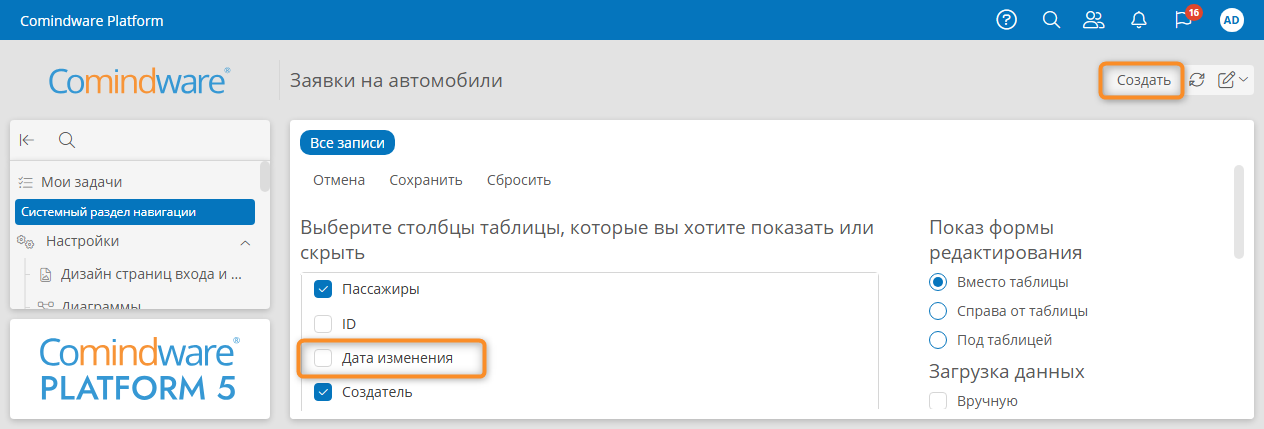
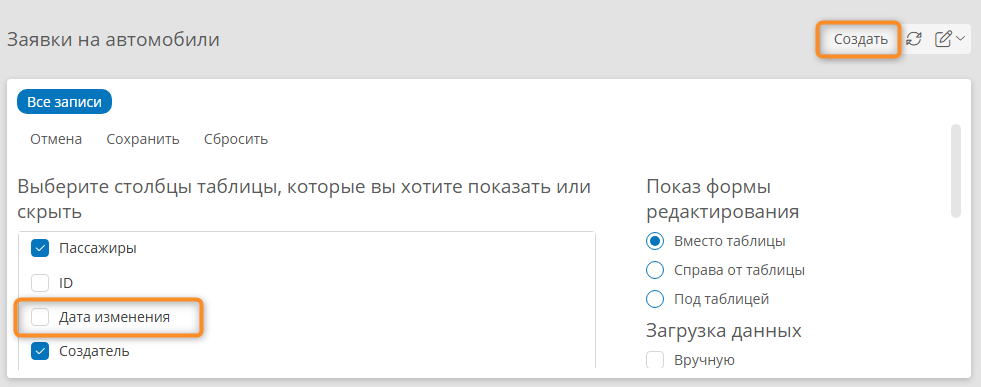
[#1838269] Updated images for lesson 2

diff --git a/for_kb_import_ru/tutorial/lesson_2.html b/for_kb_import_ru/tutorial/lesson_2.html
@@ -375,7 +375,7 @@
 </li>
 <li>
 <p>На панели элементов щелкните значок «<strong>Редактировать</strong>» <i class="fa-light fa-pencil">&zwnj;<!--icon--></i> у атрибута <em>«Время подачи»</em>.</p>
-<p><figure class="screenshot_with_caption" markdown=""><img alt="Переход к редактированию атрибута из панели элементов" src="https://kb.comindware.ru/assets/img_6241df515f950.png"/><figcaption class="caption">Переход к редактированию атрибута из панели элементов</figcaption></figure></p>
+<p><figure class="screenshot_with_caption" markdown=""><img alt="Переход к редактированию атрибута из панели элементов" src="/platform/v5.0/tutorial/img/lesson_2_form_edit_attribute.png"/><figcaption class="caption">Переход к редактированию атрибута из панели элементов</figcaption></figure></p>
 </li>
 <li>
 <p>Отобразится окно свойств атрибута.</p>
@@ -383,7 +383,7 @@
 <li>Выберите <strong>формат отображения</strong>, включающий время, например «<strong>4 сент. 1986 г. 07:30</strong>».</li>
 <li>
 <p>Нажмите кнопку «<strong>Сохранить</strong>».</p>
-<p><figure class="screenshot_with_caption" markdown=""><img alt="Выбор формата отображения атрибута типа «Дата / время»" src="https://kb.comindware.ru/assets/img_630c5c0b6d295.png"/><figcaption class="caption">Выбор формата отображения атрибута типа «Дата / время»</figcaption></figure></p>
+<p><figure class="screenshot_with_caption" markdown=""><img alt="Выбор формата отображения атрибута типа «Дата / время»" src="/platform/v5.0/tutorial/img/lesson_2_attribute_date_time_edit.png"/><figcaption class="caption">Выбор формата отображения атрибута типа «Дата / время»</figcaption></figure></p>
 </li>
 </ol>
 <h3 id="назначение-обязательных-для-заполнения-полей">Назначение обязательных для заполнения полей</h3>
@@ -391,7 +391,7 @@
 <li>Выберите на форме поле <em>«Время подачи»</em>.</li>
 <li>
 <p>В поле «<strong>Доступ</strong>» на панели свойств поля выберите режим «<strong>Требовать ввод</strong>».</p>
-<p><figure class="screenshot_with_caption" markdown=""><img alt="Выбор режима доступа к полю в форме" src="https://kb.comindware.ru/assets/img_6241e3289601c.png"/><figcaption class="caption">Выбор режима доступа к полю в форме</figcaption></figure></p>
+<p><figure class="screenshot_with_caption" markdown=""><img alt="Выбор режима доступа к полю в форме" src="/platform/v5.0/tutorial/img/lesson_2_form_field_access_select.png"/><figcaption class="caption">Выбор режима доступа к полю в форме</figcaption></figure></p>
 </li>
 <li>
 <p>Аналогично сделайте обязательным поле <em>«Место подачи»</em>.</p>
@@ -411,14 +411,14 @@
 </li>
 <li>
 <p>Перетащите поля <em>«Время подачи»</em> и <em>«Место подачи»</em> с макета формы соответственно в левый и правый столбцы элемента «<strong>Колонки</strong>».</p>
-<p><figure class="screenshot_with_caption" markdown=""><img alt="Перетаскивание элементов в столбцы в форме" src="https://kb.comindware.ru/assets/img_6241e23921c23.png"/><figcaption class="caption">Перетаскивание элементов в столбцы в форме</figcaption></figure></p>
+<p><figure class="screenshot_with_caption" markdown=""><img alt="Упорядочивание элементов формы с помощью колонок" src="/platform/v5.0/tutorial/img/lesson_2_form_columns_arrange.png"/><figcaption class="caption">Упорядочивание элементов формы с помощью колонок</figcaption></figure></p>
 </li>
 <li>
 <p>Выберите заголовок <strong>новой области</strong> и с помощью панели свойств присвойте её наглядное <strong>отображаемое название</strong>: <em>Форма заявки на автомобиль</em>.</p>
 </li>
 <li>
 <p>Сохраните форму, нажав кнопку «<strong>Сохранить</strong>» в конструкторе форм.</p>
-<p><figure class="screenshot_with_caption" markdown=""><img alt="Переименование области формы и сохранение формы" src="https://kb.comindware.ru/assets/img_6241e2b794dd5.png"/><figcaption class="caption">Переименование области формы и сохранение формы</figcaption></figure></p>
+<p><figure class="screenshot_with_caption" markdown=""><img alt="Переименование области формы и сохранение формы" src="/platform/v5.0/tutorial/img/lesson_2_form_rename.png"/><figcaption class="caption">Переименование области формы и сохранение формы</figcaption></figure></p>
 </li>
 </ol>
 <h2 id="тестирование-ввод-и-редактирование-заявок">Тестирование: ввод и редактирование заявок</h2>
@@ -426,29 +426,29 @@
 <ol class="colored_numbers_list">
 <li>
 <p>Нажмите кнопку «<strong>Настроить шаблон</strong>» <i class="fa-light fa-pen-square">&zwnj;<!--icon--></i>.</p>
-<p><figure class="screenshot_with_caption" markdown=""><img alt="Переход к настройке шаблона записи" src="https://kb.comindware.ru/assets/img_6241e867635c9.png"/><figcaption class="caption">Переход к настройке шаблона записи</figcaption></figure></p>
+<p><figure class="screenshot_with_caption" markdown=""><img alt="Переход из конструктора формы к настройке шаблона записи" src="/platform/v5.0/tutorial/img/lesson_2_form_template_edit.png"/><figcaption class="caption">Переход из конструктора формы к настройке шаблона записи</figcaption></figure></p>
 </li>
 <li>
 <p>Нажмите кнопку «<strong>Перейти к экземплярам</strong>».</p>
-<p><figure class="screenshot_with_caption" markdown=""><img alt="Переход к списку записей шаблона" src="https://kb.comindware.ru/assets/img_6241e413bc912.png"/><figcaption class="caption">Переход к списку записей шаблона</figcaption></figure></p>
+<p><figure class="screenshot_with_caption" markdown=""><img alt="Переход к списку записей шаблона" src="/platform/v5.0/tutorial/img/lesson_2_template_open_record_list.png"/><figcaption class="caption">Переход к списку записей шаблона</figcaption></figure></p>
 </li>
 <li>
 <p>Отобразится список записей шаблона.</p>
 </li>
 <li>
 <p>Нажмите кнопку «<strong>Создать</strong>», чтобы оформить новую заявку на автомобиль — запись в шаблоне.</p>
-<p><figure class="screenshot_with_caption" markdown=""><img alt="Кнопка создания записи в списке записей" src="https://kb.comindware.ru/assets/img_6241e433e893f.png"/><figcaption class="caption">Кнопка создания записи в списке записей</figcaption></figure></p>
+<p><figure class="screenshot_with_caption" markdown=""><img alt="Переход к созданию записи из списка записей шаблона" src="/platform/v5.0/tutorial/img/lesson_2_template_record_create.png"/><figcaption class="caption">Переход к созданию записи из списка записей шаблона</figcaption></figure></p>
 </li>
 <li>
 <p>Откроется <em>форма заявки на автомобиль</em>.</p>
 </li>
 <li>
 <p>Заполните все поля и нажмите кнопку «<strong>Сохранить</strong>».</p>
-<p><figure class="screenshot_with_caption" markdown=""><img alt="Экранная форма заявки" src="https://kb.comindware.ru/assets/img_630c5dc8edf1b.png"/><figcaption class="caption">Экранная форма заявки</figcaption></figure></p>
+<p><figure class="screenshot_with_caption" markdown=""><img alt="Заполнение заявки на автомобиль" src="/platform/v5.0/tutorial/img/lesson_2_request_create.png"/><figcaption class="caption">Заполнение заявки на автомобиль</figcaption></figure></p>
 </li>
 <li>
 <p>Нажмите ссылку «<strong>Заявки на автомобили</strong>» над формой, чтобы вернуться к списку заявок.</p>
-<p><figure class="screenshot_with_caption" markdown=""><img alt="Переход с формы к списку записей шаблона" src="https://kb.comindware.ru/assets/img_630c5debc35d1.png"/><figcaption class="caption">Переход с формы к списку записей шаблона</figcaption></figure></p>
+<p><figure class="screenshot_with_caption" markdown=""><img alt="Переход с формы к списку записей шаблона" src="/platform/v5.0/tutorial/img/lesson_2_request_return_to_list.png"/><figcaption class="caption">Переход с формы к списку записей шаблона</figcaption></figure></p>
 </li>
 <li>
 <p>Создайте несколько заявок на автомобиль таким же образом.</p>
@@ -456,7 +456,7 @@
 <li>Созданные записи будут отображаться в списке.</li>
 <li>
 <p>Двойным нажатием в списке записей откройте созданную запись, измените данные заявки и сохраните её.</p>
-<p><figure class="screenshot_with_caption" markdown=""><img alt="Открытие записи из списка" src="https://kb.comindware.ru/assets/img_6241e676a4ca3.png"/><figcaption class="caption">Открытие записи из списка</figcaption></figure></p>
+<p><figure class="screenshot_with_caption" markdown=""><img alt="Открытие записи из списка" src="/platform/v5.0/tutorial/img/lesson_2_template_record_open.png"/><figcaption class="caption">Открытие записи из списка</figcaption></figure></p>
 </li>
 </ol>
 <h2 id="доработка-формы-добавление-поля-согласования-заявки-секретарем">Доработка формы: добавление поля согласования заявки секретарем</h2>
@@ -464,14 +464,14 @@
 <ol class="colored_numbers_list">
 <li>
 <p>Перейдите к настройке шаблона записи. Для этого нажмите кнопку «<strong>Мои настройки</strong>» <i class="fa-light fa-edit">&zwnj;<!--icon--></i> на странице «<strong>Все записи</strong>» и выберите пункт «<strong>Настроить шаблон</strong>».</p>
-<p><figure class="screenshot_with_caption" markdown=""><img alt="Переход к настройкам шаблона из списка записей" src="https://kb.comindware.ru/assets/img_6309450bb2c9c.png"/><figcaption class="caption">Переход к настройкам шаблона из списка записей</figcaption></figure></p>
+<p><figure class="screenshot_with_caption" markdown=""><img alt="Переход к настройкам шаблона из списка записей" src="/platform/v5.0/tutorial/img/lesson_2_template_edit_from_list.png"/><figcaption class="caption">Переход к настройкам шаблона из списка записей</figcaption></figure></p>
 </li>
 <li>
 <p>На странице шаблона записи выберите вкладку «<strong>Атрибуты</strong>».</p>
 </li>
 <li>
 <p>Нажмите кнопку «<strong>Создать</strong>».</p>
-<p><figure class="screenshot_with_caption" markdown=""><img alt="Переход к созданию атрибута в шаблоне" src="https://kb.comindware.ru/assets/img_6241e9cd3c5a3.png"/><figcaption class="caption">Переход к созданию атрибута в шаблоне</figcaption></figure></p>
+<p><figure class="screenshot_with_caption" markdown=""><img alt="Переход к созданию атрибута в шаблоне" src="/platform/v5.0/tutorial/img/lesson_2_template_attribute_create.png"/><figcaption class="caption">Переход к созданию атрибута в шаблоне</figcaption></figure></p>
 </li>
 <li>
 <p>Отобразится окно «<strong>Новый атрибут</strong>».</p>
@@ -479,7 +479,7 @@
 <li>Введите <strong>название</strong> <em>«Заявка одобрена»</em> и выберите <strong>тип данных</strong> «<strong>Логический</strong>».</li>
 <li>
 <p>Нажмите кнопку «<strong>Сохранить</strong>».</p>
-<p><figure class="screenshot_with_caption" markdown=""><img alt="Создание атрибута «Заявка одобрена» типа «Логический»" src="https://kb.comindware.ru/assets/img_63094161a08d5.png"/><figcaption class="caption">Создание атрибута «Заявка одобрена» типа «Логический»</figcaption></figure></p>
+<p><figure class="screenshot_with_caption" markdown=""><img alt="Создание атрибута «Заявка одобрена» типа «Логический»" src="/platform/v5.0/tutorial/img/lesson_2_template_attribute_configure.png"/><figcaption class="caption">Создание атрибута «Заявка одобрена» типа «Логический»</figcaption></figure></p>
 </li>
 </ol>
 <h2 id="настройка-таблицы-со-списком-записей">Настройка таблицы со списком записей</h2>
@@ -488,7 +488,7 @@
 <ol class="colored_numbers_list">
 <li>
 <p>Перейдите на вкладку «<strong>Таблицы</strong>» шаблона записи и дважды нажмите строку «<strong>Все записи</strong>».</p>
-<p><figure class="screenshot_with_caption" markdown=""><img alt="Переход к конструктору таблицы" src="https://kb.comindware.ru/assets/img_6241eac23e443.png"/><figcaption class="caption">Переход к конструктору таблицы</figcaption></figure></p>
+<p><figure class="screenshot_with_caption" markdown=""><img alt="Переход к конструктору таблицы" src="/platform/v5.0/tutorial/img/lesson_2_template_table_edit.png"/><figcaption class="caption">Переход к конструктору таблицы</figcaption></figure></p>
 </li>
 <li>
 <p>Отобразится конструктор таблицы, который позволяет настроить набор и порядок отображения столбцов.</p>
@@ -500,7 +500,7 @@
 <li>Таким же образом уберите из таблицы столбцы «<strong>Дата создания</strong>», «<strong>В архиве</strong>» и «<strong>Используется в процессе</strong>».</li>
 <li>
 <p>Оставьте в таблице столбцы «<strong>Создатель</strong>» и «<strong>Дата изменения</strong>».</p>
-<p><figure class="screenshot_with_caption" markdown=""><img alt="Конструктор таблицы — удаление атрибутов из таблицы с помощью перетаскивания на панель элементов" src="https://kb.comindware.ru/assets/img_6241ed520ef21.png"/><figcaption class="caption">Конструктор таблицы — удаление атрибутов из таблицы с помощью перетаскивания на панель элементов</figcaption></figure></p>
+<p><figure class="screenshot_with_caption" markdown=""><img alt="Конструктор таблицы — удаление столбцов" src="/platform/v5.0/tutorial/img/lesson_2_table_designer_column_delete.png"/><figcaption class="caption">Конструктор таблицы — удаление столбцов</figcaption></figure></p>
 </li>
 <li>
 <p>Теперь добавим в таблицу необходимые столбцы.</p>
@@ -518,14 +518,14 @@
 <li>Будут сохранены параметры отображения таблицы по умолчанию для всех пользователей.</li>
 <li>
 <p>В меню <i class="fa-light fa-edit">&zwnj;<!--icon--></i> выберите пункт «<strong>Настроить шаблон</strong>».</p>
-<p><figure class="screenshot_with_caption" markdown=""><img alt="Перетаскивание требуемых элементов в список и сохранение списка" src="https://kb.comindware.ru/assets/img_6474a15e75f1f.png"/><figcaption class="caption">Перетаскивание требуемых элементов в список и сохранение списка</figcaption></figure></p>
+<p><figure class="screenshot_with_caption" markdown=""><img alt="Конструктор таблицы — добавление столбцов и возврат к настройке шаблона" src="/platform/v5.0/tutorial/img/lesson_2_table_designer_column_add.png"/><figcaption class="caption">Конструктор таблицы — добавление столбцов и возврат к настройке шаблона</figcaption></figure></p>
 </li>
 <li>
 <p>Отобразится вкладка «<strong>Свойства</strong>» шаблона.</p>
 </li>
 <li>
 <p>Нажмите кнопку «<strong>Перейти к экземплярам</strong>», чтобы открыть список заявок в виде таблицы с настроенными столбцами.</p>
-<p><figure class="screenshot_with_caption" markdown=""><img alt="Таблица со список заявок на автомобили с настроенными столбцами" src="https://kb.comindware.ru/assets/img_6241efdb08f28.png"/><figcaption class="caption">Таблица со список заявок на автомобили с настроенными столбцами</figcaption></figure></p>
+<p><figure class="screenshot_with_caption" markdown=""><img alt="Таблица со список заявок на автомобили с настроенными столбцами" src="/platform/v5.0/tutorial/img/lesson_2_request_list.png"/><figcaption class="caption">Таблица со список заявок на автомобили с настроенными столбцами</figcaption></figure></p>
 </li>
 </ol>
 <h2 id="поиск-и-фильтрация-записей-в-таблице">Поиск и фильтрация записей в таблице</h2>
@@ -543,7 +543,7 @@
 <ol class="colored_numbers_list">
 <li>
 <p>Нажмите  заголовок столбца <em>«Время подачи»</em>, чтобы отсортировать данные по этому столбцу: по возрастанию, по убыванию или по умолчанию. Порядок сортировки обозначается стрелкой вниз (по убыванию), стрелкой вверх (по возрастанию) или отсутствием стрелки (по умолчанию) в заголовке столбца.</p>
-<p><figure class="screenshot_with_caption" markdown=""><img alt="Сортировка таблицы нажатием заголовка столбца" src="https://kb.comindware.ru/assets/img_6241f0df1fb27.png"/><figcaption class="caption">Сортировка таблицы нажатием заголовка столбца</figcaption></figure></p>
+<p><figure class="screenshot_with_caption" markdown=""><img alt="Сортировка таблицы нажатием заголовка столбца" src="/platform/v5.0/tutorial/img/lesson_2_table_sort.png"/><figcaption class="caption">Сортировка таблицы нажатием заголовка столбца</figcaption></figure></p>
 </li>
 </ol>
 <h4 id="фильтр-записей">Фильтр записей</h4>
@@ -554,14 +554,14 @@
 <li>Введите искомое значение для фильтра в поле «<strong>Введите текст</strong>».</li>
 <li>
 <p>Нажмите кнопку «<strong>Сохранить</strong>».</p>
-<p><figure class="screenshot_with_caption" markdown=""><img alt="Применение фильтра записей по содержимому столбца " src="https://kb.comindware.ru/assets/img_6241f1e9707d2.png"/><figcaption class="caption">Применение фильтра записей по содержимому столбца </figcaption></figure></p>
+<p><figure class="screenshot_with_caption" markdown=""><img alt="Применение фильтра записей по содержимому столбца" src="/platform/v5.0/tutorial/img/lesson_2_table_filter.png"/><figcaption class="caption">Применение фильтра записей по содержимому столбца</figcaption></figure></p>
 </li>
 <li>
 <p>В списке отобразятся записи, соответствующие указанному фильтру.</p>
 </li>
 <li>
 <p>Чтобы сбросить фильтр записей, нажмите значок фильтра <i class="fa-light fa-filter">&zwnj;<!--icon--></i> в столбце <em>«Маршрут»</em>, снимите флажок «<strong>Фильтровать данные</strong>» и нажмите кнопку «<strong>Сохранить</strong>».</p>
-<p><figure class="screenshot_with_caption" markdown=""><img alt="Отключение фильтрации записей в списке" src="https://kb.comindware.ru/assets/img_6241f1da7b80e.png"/><figcaption class="caption">Отключение фильтрации записей в списке</figcaption></figure></p>
+<p><figure class="screenshot_with_caption" markdown=""><img alt="Отключение фильтрации записей в таблице" src="/platform/v5.0/tutorial/img/lesson_2_table_filter_disable.png"/><figcaption class="caption">Отключение фильтрации записей в таблице</figcaption></figure></p>
 </li>
 </ol>
 <h4 id="группировка-записей">Группировка записей</h4>
@@ -570,7 +570,7 @@
 <li>Нажмите значок фильтра <i class="fa-light fa-filter">&zwnj;<!--icon--></i> в столбце <em>«Маршрут»</em>.</li>
 <li>
 <p>В раскрывшемся меню установите флажок «<strong>Группировать</strong>» и нажмите кнопку «<strong>Сохранить</strong>».</p>
-<p><figure class="screenshot_with_caption" markdown=""><img alt=" Группировка записей в списке " src="https://kb.comindware.ru/assets/img_6241f31110572.png"/><figcaption class="caption"> Группировка записей в списке </figcaption></figure></p>
+<p><figure class="screenshot_with_caption" markdown=""><img alt="Группировка записей в таблице" src="/platform/v5.0/tutorial/img/lesson_2_table_group.png"/><figcaption class="caption">Группировка записей в таблице</figcaption></figure></p>
 </li>
 </ol>
 <h4 id="скрытие-столбца">Скрытие столбца</h4>
@@ -579,7 +579,7 @@
 <li>Нажмите кнопку <i class="fa-light fa-edit">&zwnj;<!--icon--></i> над таблицей</li>
 <li>
 <p>В раскрывшемся меню выберите пункт «<strong>Настроить внешний вид</strong>».</p>
-<p><figure class="screenshot_with_caption" markdown=""><img alt="Переход к пользовательской настройке внешнего вида таблицы" src="https://kb.comindware.ru/assets/img_6309447b73510.png"/><figcaption class="caption">Переход к пользовательской настройке внешнего вида таблицы</figcaption></figure></p>
+<p><figure class="screenshot_with_caption" markdown=""><img alt="Переход к пользовательской настройке внешнего вида таблицы" src="/platform/v5.0/tutorial/img/lesson_2_table_go_to_personal_config.png"/><figcaption class="caption">Переход к пользовательской настройке внешнего вида таблицы</figcaption></figure></p>
 </li>
 <li>
 <p>Отобразится страница настройки внешнего вида таблицы.</p>
@@ -587,8 +587,8 @@
 <li>Снимите флажок «<strong>Дата изменения</strong>», чтобы скрыть из таблицы этот столбец.</li>
 <li>Нажмите кнопку «<strong>Сохранить</strong>».</li>
 <li>
-<p>Если требуется восстановить исходную конфигурацию отображения таблицы, нажмите кнопку «<strong>Сбросить</strong>».</p>
-<p><figure class="screenshot_with_caption" markdown=""><img alt="Страница пользовательской настройки внешнего вида таблицы" src="https://kb.comindware.ru/assets/img_6241f644afe4f.png"/><figcaption class="caption">Страница пользовательской настройки внешнего вида таблицы</figcaption></figure></p>
+<p>Чтобы восстановить исходную конфигурацию отображения таблицы, нажмите кнопку «<strong>Сбросить</strong>».</p>
+<p><figure class="screenshot_with_caption" markdown=""><img alt="Настройка пользовательской конфигурации внешнего вида таблицы" src="/platform/v5.0/tutorial/img/lesson_2_table_personal_config.png"/><figcaption class="caption">Настройка пользовательской конфигурации внешнего вида таблицы</figcaption></figure></p>
 </li>
 </ol>
 <h3 id="настройка-параметров-сортировки-группировки-подсчета-итогов-и-фильтрации-данных-в-таблице-для-всех-пользователей">Настройка параметров сортировки, группировки, подсчета итогов и фильтрации данных в таблице для всех пользователей</h3>
@@ -600,10 +600,10 @@
 </ul>
 </div>
 <ol class="colored_numbers_list">
-<li>Нажмите кнопку <i class="fa-light fa-edit">&zwnj;<!--icon--></i> и в раскрывшемся меню выберите пункт «<strong>Редактировать таблицу</strong>».</li>
+<li>Нажмите кнопку <i class="fa-light fa-edit">&zwnj;<!--icon--></i> и в раскрывшемся меню выберите пункт «<strong>Настроить таблицу</strong>».</li>
 <li>
 <p>Отобразится конструктор таблицы.</p>
-<p><figure class="screenshot_with_caption" markdown=""><img alt="Переход к конструктору таблицы" src="https://kb.comindware.ru/assets/img_630c5f0fe5c73.png"/><figcaption class="caption">Переход к конструктору таблицы</figcaption></figure></p>
+<p><figure class="screenshot_with_caption" markdown=""><img alt="Переход к конструктору таблицы" src="/platform/v5.0/tutorial/img/lesson_2_table_go_to_designer.png"/><figcaption class="caption">Переход к конструктору таблицы</figcaption></figure></p>
 </li>
 <li>
 <p>Выберите вкладку «<strong>Дополнительные</strong>» в панели «<strong>Свойства таблицы</strong>».</p>
@@ -612,7 +612,7 @@
 <li>Настройте параметры сортировки, группировки и фильтрации данных в таблице для всех пользователей.</li>
 <li>
 <p>Нажмите кнопку «<strong>Сохранить</strong>».</p>
-<p><figure class="screenshot_with_caption" markdown=""><img alt="Настройка параметров сортировки, группировки и фильтрации списка по умолчанию для всех пользователей " src="https://kb.comindware.ru/assets/img_624206ff1c830.png"/><figcaption class="caption">Настройка параметров сортировки, группировки и фильтрации списка по умолчанию для всех пользователей </figcaption></figure></p>
+<p><figure class="screenshot_with_caption" markdown=""><img alt="Настройка параметров сортировки, группировки и фильтрации списка по умолчанию для всех пользователей" src="/platform/v5.0/tutorial/img/lesson_2_table_designer_advanced_properties.png"/><figcaption class="caption">Настройка параметров сортировки, группировки и фильтрации списка по умолчанию для всех пользователей</figcaption></figure></p>
 </li>
 </ol>
 <h2 id="результаты">Результаты</h2>
